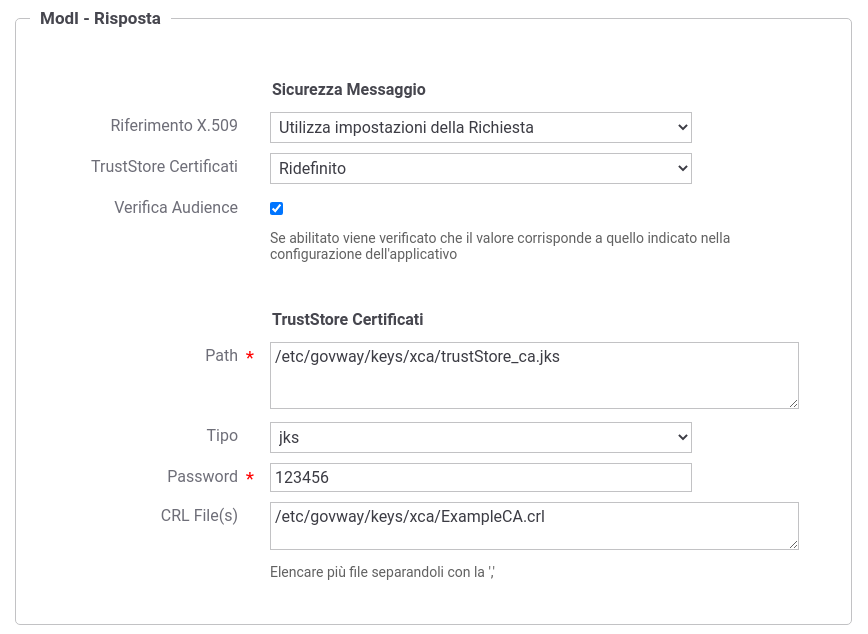
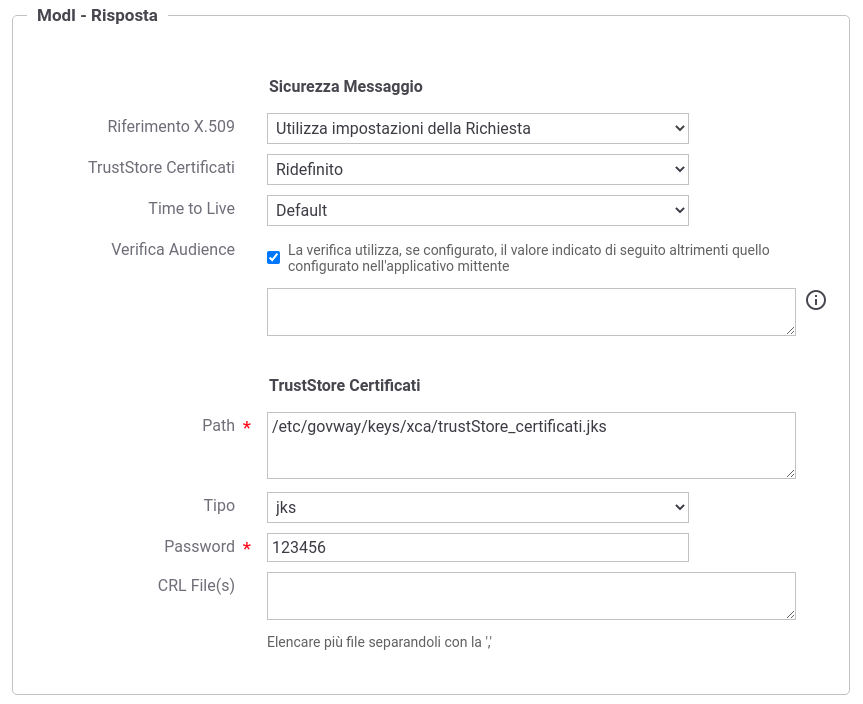
[Documentazione] Realizzata documentazione della funzionalità di generazione contemporanea dei 2 header 'Authorization' e 'Agid-JWT-Signature' per il profilo ModI.

diff --git a/protocolli/modipa/src/org/openspcoop2/protocol/modipa/constants/ModIConsoleCostanti.java b/protocolli/modipa/src/org/openspcoop2/protocol/modipa/constants/ModIConsoleCostanti.java
@@ -530,7 +530,7 @@ public class ModIConsoleCostanti {
 	public static final String MODIPA_API_IMPL_PROFILO_SICUREZZA_MESSAGGIO_DOPPI_HEADER_JTI_AS_ID_MESSAGGIO_LABEL_AUTHORIZATION = HttpConstants.AUTHORIZATION;
 	public static final String MODIPA_API_IMPL_PROFILO_SICUREZZA_MESSAGGIO_DOPPI_HEADER_JTI_AS_ID_MESSAGGIO_VALUE_MODI = ModICostanti.MODIPA_PROFILO_SICUREZZA_MESSAGGIO_REST_DOPPI_HEADER_JTI_AS_ID_MESSAGGIO_VALUE_MODI;
 	public static final String MODIPA_API_IMPL_PROFILO_SICUREZZA_MESSAGGIO_DOPPI_HEADER_JTI_AS_ID_MESSAGGIO_LABEL_MODI = MODIPA_API_IMPL_PROFILO_SICUREZZA_MESSAGGIO_DOPPI_HEADER_SUBSECTION_TEMPLATE_HEADER_AGID;
-	public static final String MODIPA_API_IMPL_PROFILO_SICUREZZA_MESSAGGIO_DOPPI_HEADER_JTI_AS_ID_MESSAGGIO_VALUE_DEFAULT = MODIPA_API_IMPL_PROFILO_SICUREZZA_MESSAGGIO_DOPPI_HEADER_JTI_AS_ID_MESSAGGIO_VALUE_AUTHORIZATION;
+	public static final String MODIPA_API_IMPL_PROFILO_SICUREZZA_MESSAGGIO_DOPPI_HEADER_JTI_AS_ID_MESSAGGIO_VALUE_DEFAULT = MODIPA_API_IMPL_PROFILO_SICUREZZA_MESSAGGIO_DOPPI_HEADER_JTI_AS_ID_MESSAGGIO_VALUE_MODI;
 
 	public static final String MODIPA_API_IMPL_PROFILO_SICUREZZA_MESSAGGIO_DOPPI_HEADER_AUDIENCE_LABEL = CostantiLabel.MODIPA_API_IMPL_PROFILO_SICUREZZA_MESSAGGIO_AUDIENCE_RICHIESTA_REST_LABEL;
 	public static final String MODIPA_API_IMPL_PROFILO_SICUREZZA_MESSAGGIO_DOPPI_HEADER_AUDIENCE_RICHIESTA_ID = ModICostanti.MODIPA_PROFILO_SICUREZZA_MESSAGGIO_RICHIESTA_REST_DOPPI_HEADER_AUDIENCE;
@@ -564,7 +564,7 @@ public class ModIConsoleCostanti {
 	public static final String MODIPA_API_IMPL_PROFILO_SICUREZZA_MESSAGGIO_DOPPI_HEADER_FILTRO_DUPLICATI_LABEL_AUTHORIZATION = HttpConstants.AUTHORIZATION;
 	public static final String MODIPA_API_IMPL_PROFILO_SICUREZZA_MESSAGGIO_DOPPI_HEADER_FILTRO_DUPLICATI_VALUE_MODI = ModICostanti.MODIPA_PROFILO_SICUREZZA_MESSAGGIO_REST_DOPPI_HEADER_FILTRO_DUPLICATI_VALUE_MODI;
 	public static final String MODIPA_API_IMPL_PROFILO_SICUREZZA_MESSAGGIO_DOPPI_HEADER_FILTRO_DUPLICATI_LABEL_MODI = MODIPA_API_IMPL_PROFILO_SICUREZZA_MESSAGGIO_DOPPI_HEADER_SUBSECTION_TEMPLATE_HEADER_AGID;
-	public static final String MODIPA_API_IMPL_PROFILO_SICUREZZA_MESSAGGIO_DOPPI_HEADER_FILTRO_DUPLICATI_VALUE_DEFAULT = MODIPA_API_IMPL_PROFILO_SICUREZZA_MESSAGGIO_DOPPI_HEADER_FILTRO_DUPLICATI_VALUE_AUTHORIZATION;
+	public static final String MODIPA_API_IMPL_PROFILO_SICUREZZA_MESSAGGIO_DOPPI_HEADER_FILTRO_DUPLICATI_VALUE_DEFAULT = MODIPA_API_IMPL_PROFILO_SICUREZZA_MESSAGGIO_DOPPI_HEADER_FILTRO_DUPLICATI_VALUE_MODI;
 	
 	
 	public static final String MODIPA_API_IMPL_PROFILO_SICUREZZA_MESSAGGIO_AUDIENCE_RISPOSTA_REST_LABEL = "Verifica Audience";

diff --git a/protocolli/modipa/src/org/openspcoop2/protocol/modipa/properties/ModIDynamicConfiguration.java b/protocolli/modipa/src/org/openspcoop2/protocol/modipa/properties/ModIDynamicConfiguration.java
@@ -2758,7 +2758,7 @@ public class ModIDynamicConfiguration extends BasicDynamicConfiguration implemen
 						ModIConsoleCostanti.MODIPA_API_IMPL_PROFILO_SICUREZZA_MESSAGGIO_AUDIENCE_RISPOSTA_VALORE_ID, 
 						ModIConsoleCostanti.MODIPA_API_IMPL_PROFILO_SICUREZZA_MESSAGGIO_AUDIENCE_RISPOSTA_VALORE_LABEL);
 				audValueItem.setRows(2);
-				ConsoleItemInfo info = new ConsoleItemInfo(ModIConsoleCostanti.MODIPA_API_IMPL_PROFILO_SICUREZZA_MESSAGGIO_REST_JWT_CLAIMS_LABEL);
+				ConsoleItemInfo info = new ConsoleItemInfo(rest ? ModIConsoleCostanti.MODIPA_API_IMPL_PROFILO_SICUREZZA_MESSAGGIO_AUDIENCE_RISPOSTA_REST_LABEL :  ModIConsoleCostanti.MODIPA_API_IMPL_PROFILO_SICUREZZA_MESSAGGIO_AUDIENCE_RISPOSTA_SOAP_LABEL);
 				info.setHeaderBody(DynamicHelperCostanti.LABEL_PARAMETRO_MODIPA_API_IMPL_PROFILO_SICUREZZA_MESSAGGIO_AUDIENCE_INFO);
 				if(rest) {
 					info.setListBody(DynamicHelperCostanti.LABEL_PARAMETRO_MODIPA_API_IMPL_PROFILO_SICUREZZA_MESSAGGIO_REST_AUDIENCE_INFO_VALORI_RESPONSE);
@@ -3092,6 +3092,10 @@ public class ModIDynamicConfiguration extends BasicDynamicConfiguration implemen
 			else {
 				audValueItem.setRequired(true);
 			}
+			ConsoleItemInfo info = new ConsoleItemInfo(ModIConsoleCostanti.MODIPA_API_IMPL_PROFILO_SICUREZZA_MESSAGGIO_DOPPI_HEADER_AUDIENCE_LABEL);
+			info.setHeaderBody(DynamicHelperCostanti.LABEL_PARAMETRO_MODIPA_API_IMPL_PROFILO_SICUREZZA_MESSAGGIO_AUDIENCE_INFO);
+			info.setListBody(DynamicHelperCostanti.LABEL_PARAMETRO_MODIPA_API_IMPL_PROFILO_SICUREZZA_MESSAGGIO_REST_AUDIENCE_INFO_VALORI_RESPONSE);
+			audValueItem.setInfo(info);
 			configuration.addConsoleItem(audValueItem);
 			
 			// NOTA: se si aggiunge un elemento a questo posizione, riconfigurare setLastItemId nel subsection item

diff --git a/resources/doc/src/manuali/console/profiloModIPA/messaggio/avanzata/header/contemporaneita_fruizione.rst b/resources/doc/src/manuali/console/profiloModIPA/messaggio/avanzata/header/contemporaneita_fruizione.rst
@@ -1,0 +1,64 @@
+.. _modipa_sicurezza_avanzate_header_contemporaneita_fruizione:
+
+Configurazione contemporaneità degli header in una Fruizione
+------------------------------------------------------------------------------------------------
+
+La configurazione differisce a seconda se il token di sicurezza deve essere generato (Richiesta) o validato (Risposta). Di seguito vengono descritte le opzioni di configurazione possibili per le due fasi.
+
+Richiesta
+^^^^^^^^^^^^^^
+
+Di seguito vengono descritti i parametri di configurazione riguardanti la generazione dei due token nel flusso di richiesta.
+
+.. figure:: ../../../../_figure_console/contemporaneita_fruizione_richiesta.png
+    :scale: 70%
+    :align: center
+    :name: contemporaneita_fruizione_richiesta
+
+    Maschera ModI per la configurazione della fruizione in presenza dei due header nella richiesta
+
+- Identificativo 'jti': la configurazione di default prevede la valorizzazone dl claim 'jti', presente all'interno dei token di sicurezza portati dai due header, con il medesimo identificativo. Il parametro consente di impostare la generazione di un identificativo differente e di indicare al gateway quale dei due identificativi dovrà associare alla traccia come 'ID del Messaggio' tramite la voce 'Usa come ID Messaggio' (:numref:`scelta_jti_as_id_messaggio`). L'identificativo indicato sarà utilizzabile come criterio di ricerca puntuale tramite la funzionalità disponibile con la console e le API di monitoraggio. L'identificativo 'jti' presente nell'altro header verrà comunque associato alla traccia ma non sarà direttamente utilizzabile come criterio di ricerca per individuare la transazione in un secondo momento.
+
+.. figure:: ../../../../_figure_console/scelta_jti_as_id_messaggio.png
+    :scale: 70%
+    :align: center
+    :name: scelta_jti_as_id_messaggio
+
+    Selezione del claim 'jti' da utilizzare come ID del Messaggio
+
+- Audience: la configurazione di default prevede la valorizzazione del claim 'aud', presente all'interno dei token di sicurezza portati dai due header, con il medesimo identificativo. Il parametro consente di impostare la generazione di un identificativo differente indicando l'audience da impostare nel token dell'header Agid-JWT-Signature come mostrato nella figura :numref:`scelta_aud_integrity`.
+
+.. figure:: ../../../../_figure_console/scelta_aud_integrity.png
+    :scale: 70%
+    :align: center
+    :name: scelta_aud_integrity
+
+    Configurazione del claim 'aud' da utilizzare nel token dell'header Agid-JWT-Signature
+
+- Claims 'Authorization' e 'Agid-JWT-Signature': consente di modificare i valori di default associati ai claim standard e/o di definirne altri solamente all'interno del token dell'header indicato. Per maggiori dettagli sulle configurazioni disponibili si rimanda alla sezione :ref:`modipa_sicurezza_avanzate_claims`.
+
+
+Risposta
+^^^^^^^^^^^^^^
+
+Di seguito vengono descritti i parametri di configurazione riguardanti la validazione dei due token nel flusso di risposta.
+
+.. figure:: ../../../../_figure_console/contemporaneita_fruizione_risposta.png
+    :scale: 70%
+    :align: center
+    :name: contemporaneita_fruizione_risposta
+
+    Maschera ModI per la configurazione della fruizione in presenza dei due header nella risposta
+
+- Id 'jti' per Filtro Duplicati: consente di indicare da quale header estrarre l'identificativo 'jti' da associare alla traccia come 'ID del Messaggio' (default: Agid-JWT-Signature). L'identificativo indicato verrà utilizzato per la funzionalità di filtro delle richieste duplicate. Inoltre l'identificativo indicato sarà utilizzabile come criterio di ricerca puntuale tramite la funzionalità disponibile con la console e le API di monitoraggio. L'identificativo 'jti' presente nell'altro header verrà comunque associato alla traccia ma non sarà direttamente utilizzabile come criterio di ricerca per individuare la transazione in un secondo momento.
+
+- Audience: la configurazione di default si attende un valore del claim 'aud', presente all'interno dei token di sicurezza portati dai due header, con il medesimo identificativo. Il parametro consente di impostare la generazione di un identificativo differente indicando l'audience atteso nell'header Agid-JWT-Signature come mostrato nella figura :numref:`validazione_aud_integrity`.
+
+.. figure:: ../../../../_figure_console/validazione_aud_integrity.png
+    :scale: 70%
+    :align: center
+    :name: validazione_aud_integrity
+
+    Valore atteso per il claim 'aud' nel token dell'header Agid-JWT-Signature
+
+

diff --git a/resources/doc/src/manuali/console/profiloModIPA/messaggio/avanzata/header/index.rst b/resources/doc/src/manuali/console/profiloModIPA/messaggio/avanzata/header/index.rst
@@ -1,0 +1,48 @@
+.. _modipa_sicurezza_avanzate_header:
+
+Header HTTP del token JWT
+--------------------------
+
+Il pattern di sicurezza, su API di tipo REST, produrrà la generazione di un token JWT firmato inserito all'interno dell'header HTTP previsto dalle *Linee Guida AGID di Interoperabilità* (LG) dove vengono definiti gli header HTTP 'Authorization' (Bearer) da usare per l'auenticazione e l'header HTTP 'Agid-JWT-Signature' per l'integrità.
+
+La configurazione di default degli header prodotti varia a seconda del pattern di sicurezza selezionato:
+
+- :ref:`modipa_idar01`: header HTTP 'Authorization'.
+
+- :ref:`modipa_idar02`: header HTTP 'Authorization'.
+
+- :ref:`modipa_idar03`: nel flusso di richiesta vengono prodotti entrambi gli header, mentre nel flusso di risposta solamente l'header HTTP 'Agid-JWT-Signature'.
+
+La voce 'Header HTTP del Token' consente di modificare la configurazione di default e variare sia il nome che l'eventuale contemporaneità dei 2 header principalmente per due motivi:
+
+- per consentire la retrocompatibilità con il pattern IDAR03, previsto nelle linee guida della versione 'bozza' (https://docs.italia.it/italia/piano-triennale-ict/lg-modellointeroperabilita-docs/it/bozza/), dove veniva utilizzato con qualsiasi pattern sempre un unico header HTTP 'Authorization';
+
+- per supportare qualsiasi interpretazione del pattern 'INTEGRITY_REST_01' e relativa implementazione da parte della controparte con cui si deve interoperare.
+
+Per i motivi suddetti le possibili configurazioni supportate configurabili tramite la voce 'Header HTTP del Token' sono le seguenti (:numref:`modipa_sicurezza_header`): 
+
+- 'Agid-JWT-Signature + Authorization Bearer' : opzione selezionabile solamente con pattern che prevede 'INTEGRITY_REST_01'. Prevede la generazione nel flusso di richiesta di entrambi gli header http previsti dalle LG. Nel flusso di risposta è previsto invece solamente l'header 'Agid-JWT-Signature'.
+- 'Agid-JWT-Signature + Authorization Bearer anche nella risposta': comportamento identico all'opzione precedente, dove però la contemporaneità dei due header è prevista anche nel flusso di risposta.
+- 'Agid-JWT-Signature' : viene generato sempre e solo un unico token di sicurezza, indipendentemente dal pattern di sicurezza selezionato, utilizzando come nome dell'header HTTP il nome proprietario delle LG.
+- 'Authorization Bearer' : comportamento identico all'opzione precedente, dove però viene utilizzato l'header HTTP 'Authorization' e prefisso 'Bearer ' nel valore. Questa opzione, in presenza di pattern che prevede 'INTEGRITY_REST_01', consente di essere interoperabile con i servizi implementati con la versione 'bozza' delle LG.
+
+.. figure:: ../../../../_figure_console/modipa_sicurezza_header.png
+    :scale: 50%
+    :align: center
+    :name: modipa_sicurezza_header
+
+    Selezione dell'Header HTTP del token JWT
+
+.. note::
+
+	**Processamento dell'header Agid-JWT-Signature con opzioni che prevedono anche l'header Authorization**
+
+	Se un'API o una risorsa è stata configurata con un'opzione che prevede la contemporaneità dei 2 header, la generazione o la verifica dell'header 'Agid-JWT-Signature' avviene solamente se la richiesta o la risposta prevede un payload; ad esempio in una richiesta HTTP GET non verrà generato o atteso l'header. Caso eccezionale riguarda i flussi configurati per firmare header http indipendenti dal payload della richiesta (diversi quindi dai classici header Content-Type, Content-Encoding, Digest); in questi casi l'header 'Agid-JWT-Signature' verrà generato anche in assenza di payload poichè nel token saranno inseriti nel claim 'signed_headers' gli ulteriori header configurati per essere firmati.
+
+Se in un'API viene selezionata una opzione che prevede la contemporaneità dei 2 header, nelle maschere di configurazione ModI delle fruizioni e delle erogazioni saranno presenti ulteriori opzioni che consentono di personalizzare la gestione dei claims presenti all'interno dei due header. Di seguito vengono descritte le opzioni ulteriori presenti nelle fruizioni e nelle erogazioni
+
+.. toctree::
+        :maxdepth: 1
+
+	contemporaneita_fruizione
+	contemporaneita_erogazione

diff --git a/resources/doc/src/manuali/console/profiloModIPA/messaggio/avanzata/header/contemporaneita_erogazione.rst b/resources/doc/src/manuali/console/profiloModIPA/messaggio/avanzata/header/contemporaneita_erogazione.rst
@@ -1,0 +1,39 @@
+.. _modipa_sicurezza_avanzate_header_contemporaneita_erogazione:
+
+Configurazione contemporaneità degli header in una Erogazione
+--------------------------------------------------------------------------------------------------
+
+La configurazione differisce a seconda se il token di sicurezza deve essere validato (Richiesta) o generato (Risposta). Di seguito vengono descritte le opzioni di configurazione possibili per le due fasi.
+
+Richiesta
+^^^^^^^^^^^^^^
+
+Di seguito vengono descritti i parametri di configurazione riguardanti la validazione dei due token nel flusso di richiesta.
+
+.. figure:: ../../../../_figure_console/contemporaneita_erogazione_richiesta.png
+    :scale: 70%
+    :align: center
+    :name: contemporaneita_erogazione_richiesta
+
+    Maschera ModI per la configurazione dell'erogazione in presenza dei due header nella richiesta
+
+- Id 'jti' per Filtro Duplicati: consente di indicare da quale header estrarre l'identificativo 'jti' da associare alla traccia come 'ID del Messaggio' (default: Agid-JWT-Signature). L'identificativo indicato verrà utilizzato per la funzionalità di filtro delle richieste duplicate. Inoltre l'identificativo indicato sarà utilizzabile come criterio di ricerca puntuale tramite la funzionalità disponibile con la console e le API di monitoraggio. L'identificativo 'jti' presente nell'altro header verrà comunque associato alla traccia ma non sarà direttamente utilizzabile come criterio di ricerca per individuare la transazione in un secondo momento.
+
+- Audience: la configurazione di default si attende un valore del claim 'aud', presente all'interno dei token di sicurezza portati dai due header, con il medesimo identificativo. Il parametro consente di impostare la generazione di un identificativo differente indicando l'audience atteso nell'header Agid-JWT-Signature come mostrato nella figura :numref:`validazione_aud_integrity`.
+
+
+Risposta
+^^^^^^^^^^^^^^
+
+Di seguito vengono descritti i parametri di configurazione riguardanti la generazione dei due token nel flusso di risposta.
+
+.. figure:: ../../../../_figure_console/contemporaneita_erogazione_risposta.png
+    :scale: 70%
+    :align: center
+    :name: contemporaneita_erogazione_risposta
+
+    Maschera ModI per la configurazione dell'erogazione in presenza dei due header nella risposta
+
+- Identificativo 'jti': la configurazione di default prevede la valorizzazone dl claim 'jti', presente all'interno dei token di sicurezza portati dai due header, con il medesimo identificativo. Il parametro consente di impostare la generazione di un identificativo differente e di indicare al gateway quale dei due identificativi dovrà associare alla traccia come 'ID del Messaggio' tramite la voce 'Usa come ID Messaggio' (:numref:`scelta_jti_as_id_messaggio`). L'identificativo indicato sarà utilizzabile come criterio di ricerca puntuale tramite la funzionalità disponibile con la console e le API di monitoraggio. L'identificativo 'jti' presente nell'altro header verrà comunque associato alla traccia ma non sarà direttamente utilizzabile come criterio di ricerca per individuare la transazione in un secondo momento.
+
+- Claims 'Authorization' e 'Agid-JWT-Signature': consente di modificare i valori di default associati ai claim standard e/o di definirne altri solamente all'interno del token dell'header indicato. Per maggiori dettagli sulle configurazioni disponibili si rimanda alla sezione :ref:`modipa_sicurezza_avanzate_claims`.

diff --git a/resources/doc/src/manuali/console/profiloModIPA/messaggio/idar01_fruizione.rst b/resources/doc/src/manuali/console/profiloModIPA/messaggio/idar01_fruizione.rst
@@ -17,7 +17,7 @@ Per la configurazione delle fruizioni con i pattern di sicurezza messaggio è ne
 La registrazione dell'applicativo avviene come già descritto nella sez. :ref:`applicativo`. In questo contesto sarà necessario specificare il dominio "Interno" dell'applicativo e procedere all'inserimento dei dati nel form "ModI" (:numref:`applicativo_interno_fig`).
 
    .. figure:: ../../_figure_console/modipa_applicativo_interno.png
-    :scale: 40%
+    :scale: 60%
     :name: applicativo_interno_fig
 
     Dati ModI relativi ad un applicativo interno
@@ -40,10 +40,10 @@ L'interfaccia per la creazione della fruizione, basata su una API con pattern "I
     + Riferimento X.509: il metodo da utilizzare per l'inserimento del certificato dell'applicativo nel token di sicurezza. I valori possibili sono (differenziati per il caso REST e SOAP) quelli previsti nelle Linee Guida di Interoperabilità:
     + Certificate Chain: se è stata selezionata la modalità 'x5c', è possibile indicare se nel token di sicurezza verrà incluso solo il certificato utilizzato per la firma o l'intera catena.
     + Time to Live: tempo di validità del token prodotto (in secondi)
-    + Audience: identificativo dell'applicativo destinatario da indicare come audience nel token di sicurezza; se non viene indicato alcun valore verrà utilizzato la url del connettore.
+    + Audience: identificativo dell'applicativo destinatario da indicare come audience nel token di sicurezza; se non viene indicato alcun valore verrà utilizzato la url del connettore. Il valore fornito può contenere parti dinamiche risolte a runtime dal Gateway (per maggiori dettagli :ref:`valoriDinamici`).
 
    .. figure:: ../../_figure_console/modipa_fruizione_richiesta.png
-    :scale: 50%
+    :scale: 70%
     :name: fruizione_richiesta_fig
 
     Dati per la configurazione della sicurezza messaggio sulla richiesta di una fruizione
@@ -53,10 +53,10 @@ L'interfaccia per la creazione della fruizione, basata su una API con pattern "I
 
     - Riferimento X.509: il metodo per la localizzazione del certificato del destinatario nel messaggio di risposta. Si può mantenere la medesima impostazione prevista per il messaggio di richiesta o ridefinirla.
     - TrustStore Certificati: Riferimento al truststore che contiene le CA, i certificati e le CRL da utilizzare per poter verificare i token di sicurezza ricevuti nelle risposte. È possibile mantenere l'impostazione di default che è stata fornita al momento dell'installazione del prodotto, oppure definire un diverso riferimento (opzione "Ridefinito") fornendo Path, Tipo, Password del TrustStore e CRL.
-    - Verifica Audience: Se abilitata questa opzione, viene effettuata la verifica che il campo Audience, presente nel token di sicurezza della risposta, corrisponda a quello indicato per l'applicativo mittente.
+    - Verifica Audience: Se l'opzione è abilitata, viene effettuata la verifica che il campo Audience, presente nel token di sicurezza della risposta, corrisponda al valore presente nel campo successivo, se indicato, o altrimenti a quello configurato nell'applicativo mittente nella voce 'Identificativo Client'.
 
    .. figure:: ../../_figure_console/modipa_fruizione_risposta.png
-    :scale: 50%
+    :scale: 70%
     :name: fruizione_risposta_fig
 
     Dati per la configurazione della sicurezza messaggio sulla risposta di una fruizione

diff --git a/resources/doc/src/manuali/console/profiloModIPA/messaggio/idar01_erogazione.rst b/resources/doc/src/manuali/console/profiloModIPA/messaggio/idar01_erogazione.rst
@@ -21,7 +21,7 @@ Per la configurazione di erogazioni basate su una API con pattern "ID_AUTH_REST_
     + Audience: valore del campo Audience atteso nel token di sicurezza della richiesta.
 
    .. figure:: ../../_figure_console/modipa_erogazione_richiesta.png
-    :scale: 50%
+    :scale: 70%
     :name: erogazione_richiesta_fig
 
     Dati per la configurazione della sicurezza messaggio sulla richiesta di una erogazione
@@ -36,7 +36,7 @@ Per la configurazione di erogazioni basate su una API con pattern "ID_AUTH_REST_
     + Time to Live (secondi): validità temporale del token prodotto.
 
    .. figure:: ../../_figure_console/modipa_erogazione_risposta.png
-    :scale: 50%
+    :scale: 70%
     :name: erogazione_risposta_fig
 
     Dati per la configurazione della sicurezza messaggio sulla risposta di una erogazione
@@ -57,7 +57,7 @@ Nel contesto dei pattern di sicurezza messaggio è possibile registrare anche gl
 Per abilitare quanto al punto 1 è sufficiente la sola registrazione degli applicativi esterni coinvolti (:numref:`applicativo_esterno_fig`).
 
    .. figure:: ../../_figure_console/modipa_applicativo_esterno.png
-    :scale: 50%
+    :scale: 70%
     :name: applicativo_esterno_fig
 
     Registrazione di un applicativo esterno
@@ -67,7 +67,7 @@ Dopo aver indicato il dominio "Esterno" per l'applicativo, sarà necessario sele
 La registrazione dell'applicativo esterno comprende anche la sezione con i dati relativi alla sicurezza messaggio (:numref:`applicativo_esterno_upload_fig`).
 
    .. figure:: ../../_figure_console/modipa_applicativo_esterno_upload.png
-    :scale: 50%
+    :scale: 70%
     :name: applicativo_esterno_upload_fig
 
     Dati ModI relativi ad un applicativo esterno con upload del certificato
@@ -99,7 +99,7 @@ I dati da fornire sono:
 Per abilitare le funzionalità di autorizzazione dei singoli applicativi (punto 2 del precedente elenco) si deve procedere alla configurazione della sezione "Controllo Accessi" relativa all'erogazione. Quando attiva la sicurezza messaggio, questa sezione conterrà il form "Autorizzazione ModI" (:numref:`erogazione_secMessaggio_fig`). Qui è possibile specificare un elenco di applicativi (esterni) autorizzati, ad accedere all'erogazione, tra quelli identificati nella fase di verifica del relativo certificato. Gli applicativi esterni saranno selezionabili tra quelli censiti nella sezione "Applicativi" (:numref:`erogazione_secMessaggio_fig`).
 
    .. figure:: ../../_figure_console/modipa_erogazione_secMessaggio.png
-    :scale: 40%
+    :scale: 60%
     :name: erogazione_secMessaggio_fig
 
     Autorizzazione di singoli applicativi per l'accesso all'erogazione

diff --git a/resources/doc/src/manuali/console/profiloModIPA/messaggio/idar03.rst b/resources/doc/src/manuali/console/profiloModIPA/messaggio/idar03.rst
@@ -24,7 +24,7 @@ L'attivazione di questo pattern avviene a livello della relativa API, nella sezi
 
     Pattern di sicurezza messaggio "INTEGRITY_SOAP_01" per l'API
 
-Le voci 'Header HTTP del Token' (presente solamente su API di tipo REST) e 'Applicabilità' consentono di personalizzare l'header HTTP utilizzato e di indicare se il pattern di sicurezza verrà attuato sia sulla richiesta che sulla risposta. Su API di tipo SOAP è possibile selezionare una 'Applicatibilità' che firmi oltre al body anche gli attachments, se presenti. Maggiori informazioni vengono fornite nella sezione ':ref:`modipa_sicurezza_avanzate`'.
+Le voci 'Header HTTP del Token' (presente solamente su API di tipo REST) e 'Applicabilità' consentono di personalizzare gli header HTTP utilizzati (nomi e contemporaneità) e di indicare se il pattern di sicurezza verrà attuato sia sulla richiesta che sulla risposta. Su API di tipo SOAP è possibile selezionare una 'Applicatibilità' che firmi oltre al body anche gli attachments, se presenti. Maggiori informazioni vengono fornite nella sezione ':ref:`modipa_sicurezza_avanzate`'.
 
 La voce 'Informazioni Utente' consente di abilitare la funzionalità, descritta nella sezione ':ref:`modipa_infoUtente`', che consente di aggiungere all'interno del token di sicurezza le informazioni sull'utente che ha effettuato la richiesta.
 

diff --git a/resources/doc/src/manuali/console/profiloModIPA/messaggio/avanzata/claims.rst b/resources/doc/src/manuali/console/profiloModIPA/messaggio/avanzata/claims.rst
@@ -18,7 +18,7 @@ Altri claims possono essere aggiunti al payload JWT definendoli nel campo 'Claim
 .. note::
       Non è consentito indicare i claims 'iat, nbf, exp, jti'. In una richiesta non è inoltre consentito indicare ne il claim 'aud' ne il claim 'client_id' (quest'ultimo prevede un caso eccezionale con il valore ${notGenerate} descritto in seguito). In una risposta, invece, non è consentito indicare il claim 'request_digest'. 
 
-Di seguito vengono forniti i valori di default inseriti da GovWay nel payload jwt per quanto concerne i claims che individuano gli attori, differenziando tra il token di richiesta generato da una fruizione e il token di risposta generato da una erogazione:
+Di seguito vengono forniti i valori di default inseriti da GovWay nel payload jwt per quanto concerne i claims che individuano gli attori, differenziando tra il token di richiesta generato da una fruizione e il token di risposta generato da una erogazione. Per ogni claim viene anche indicato come modificare il valore di default associato.
 
 - 'aud': indica a chi è riferito il security token
 

diff --git a/resources/doc/src/manuali/console/profiloModIPA/messaggio/avanzata/index.rst b/resources/doc/src/manuali/console/profiloModIPA/messaggio/avanzata/index.rst
@@ -21,7 +21,7 @@ La gestione dei pattern di sicurezza messaggio possono essere personalizzati su 
         :maxdepth: 2
 
 	applicabilita
-	header
+	header/index
 	claims
 	header_soap
 	sbustamento
